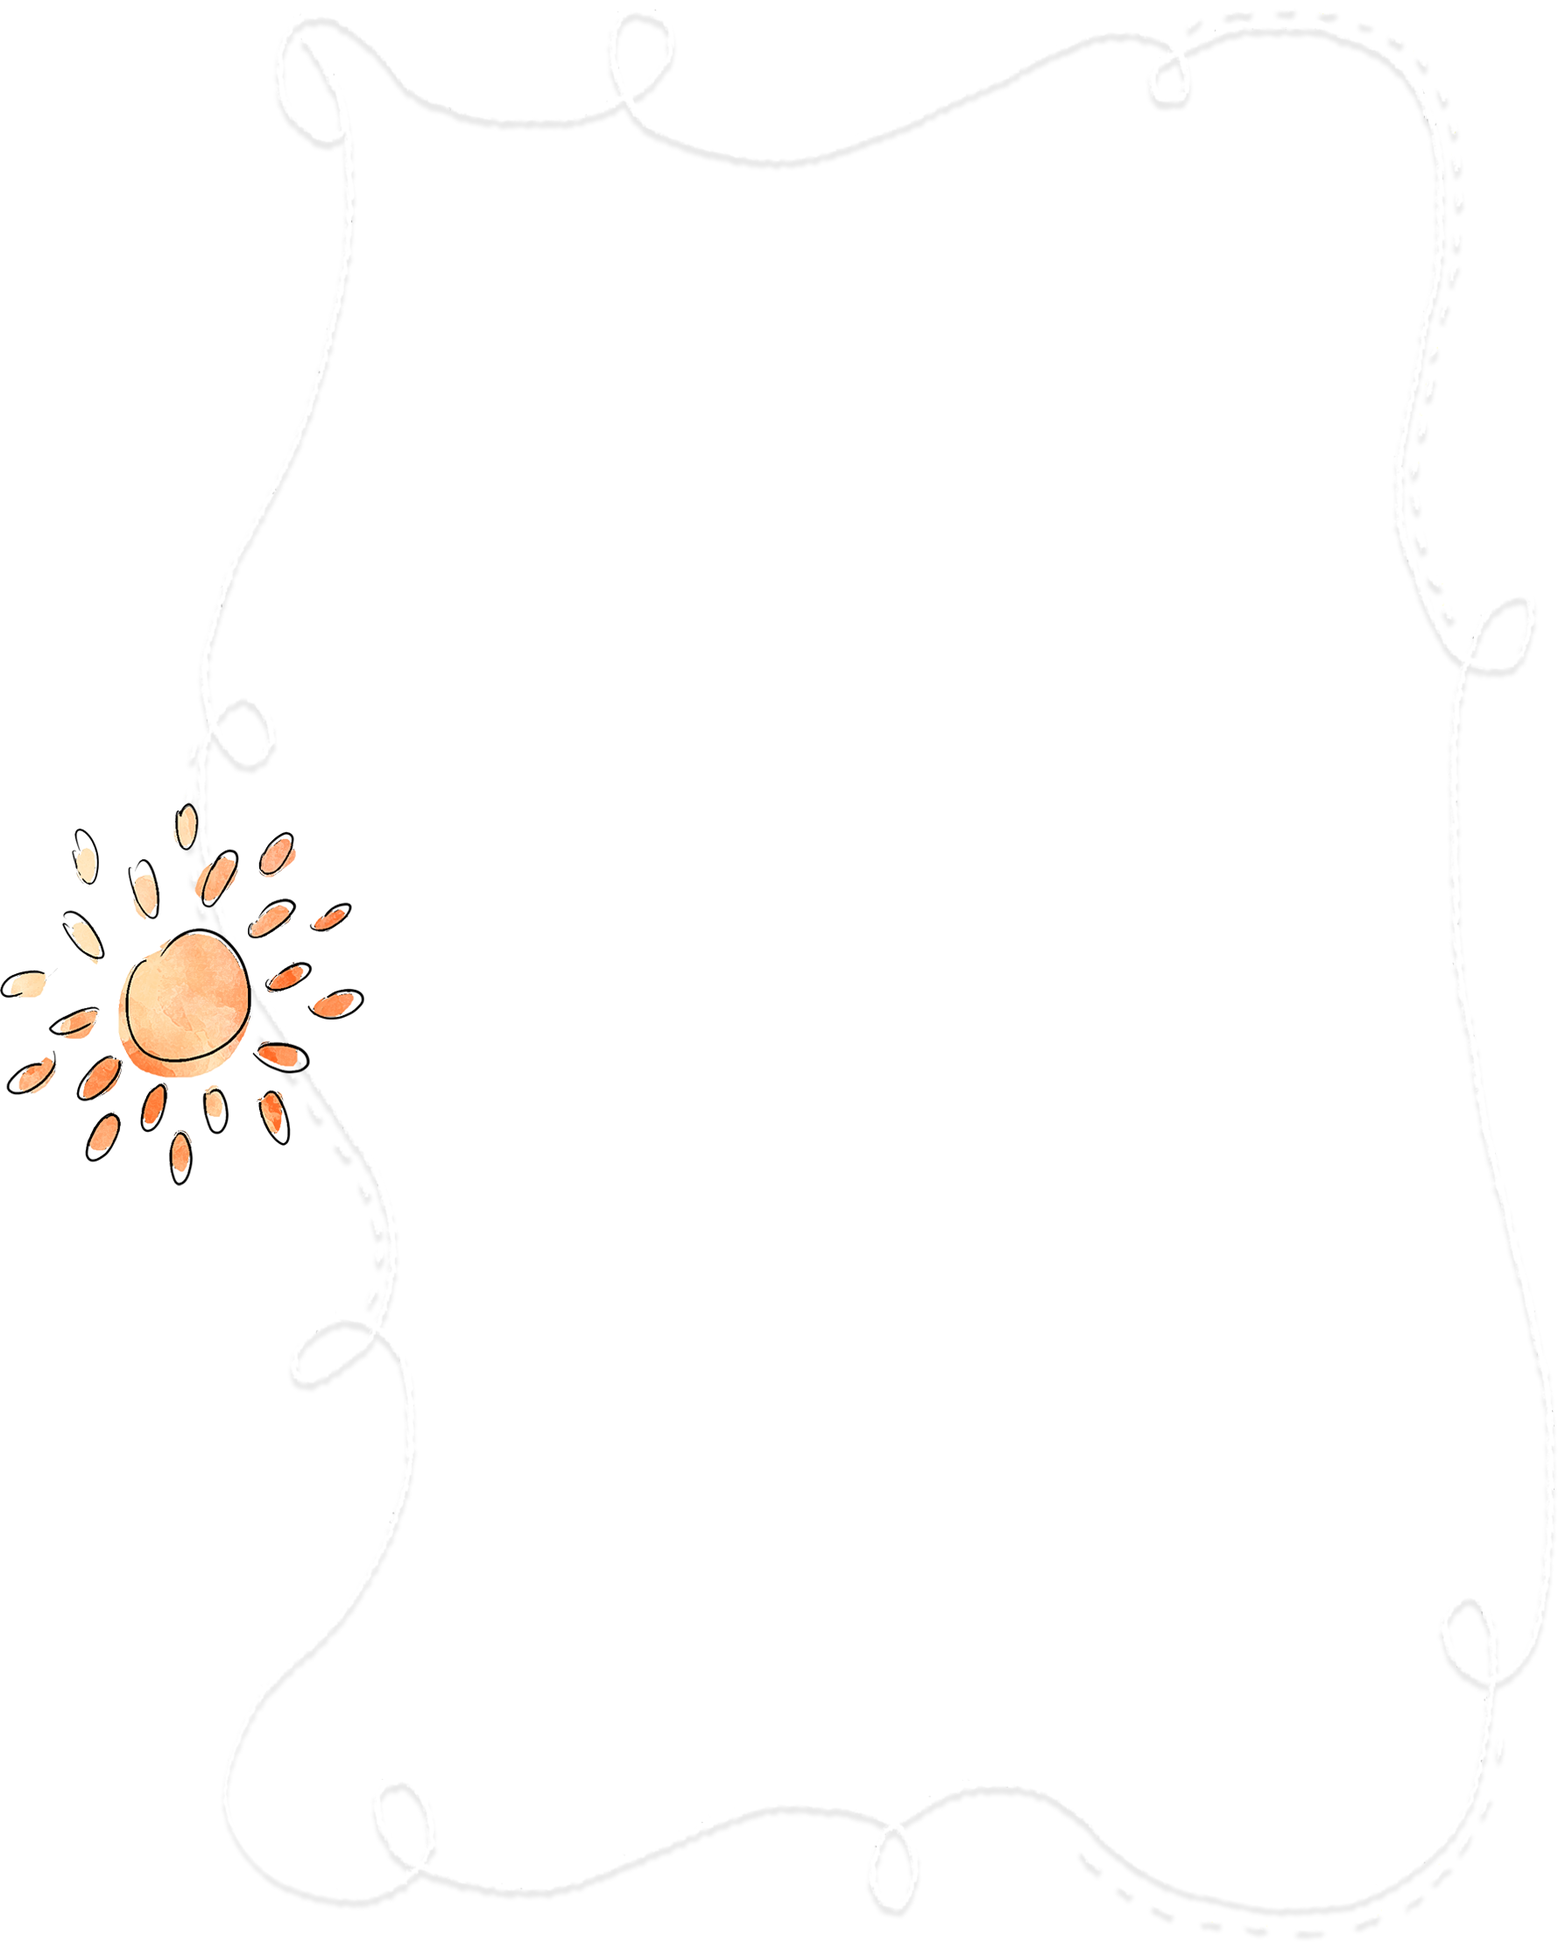
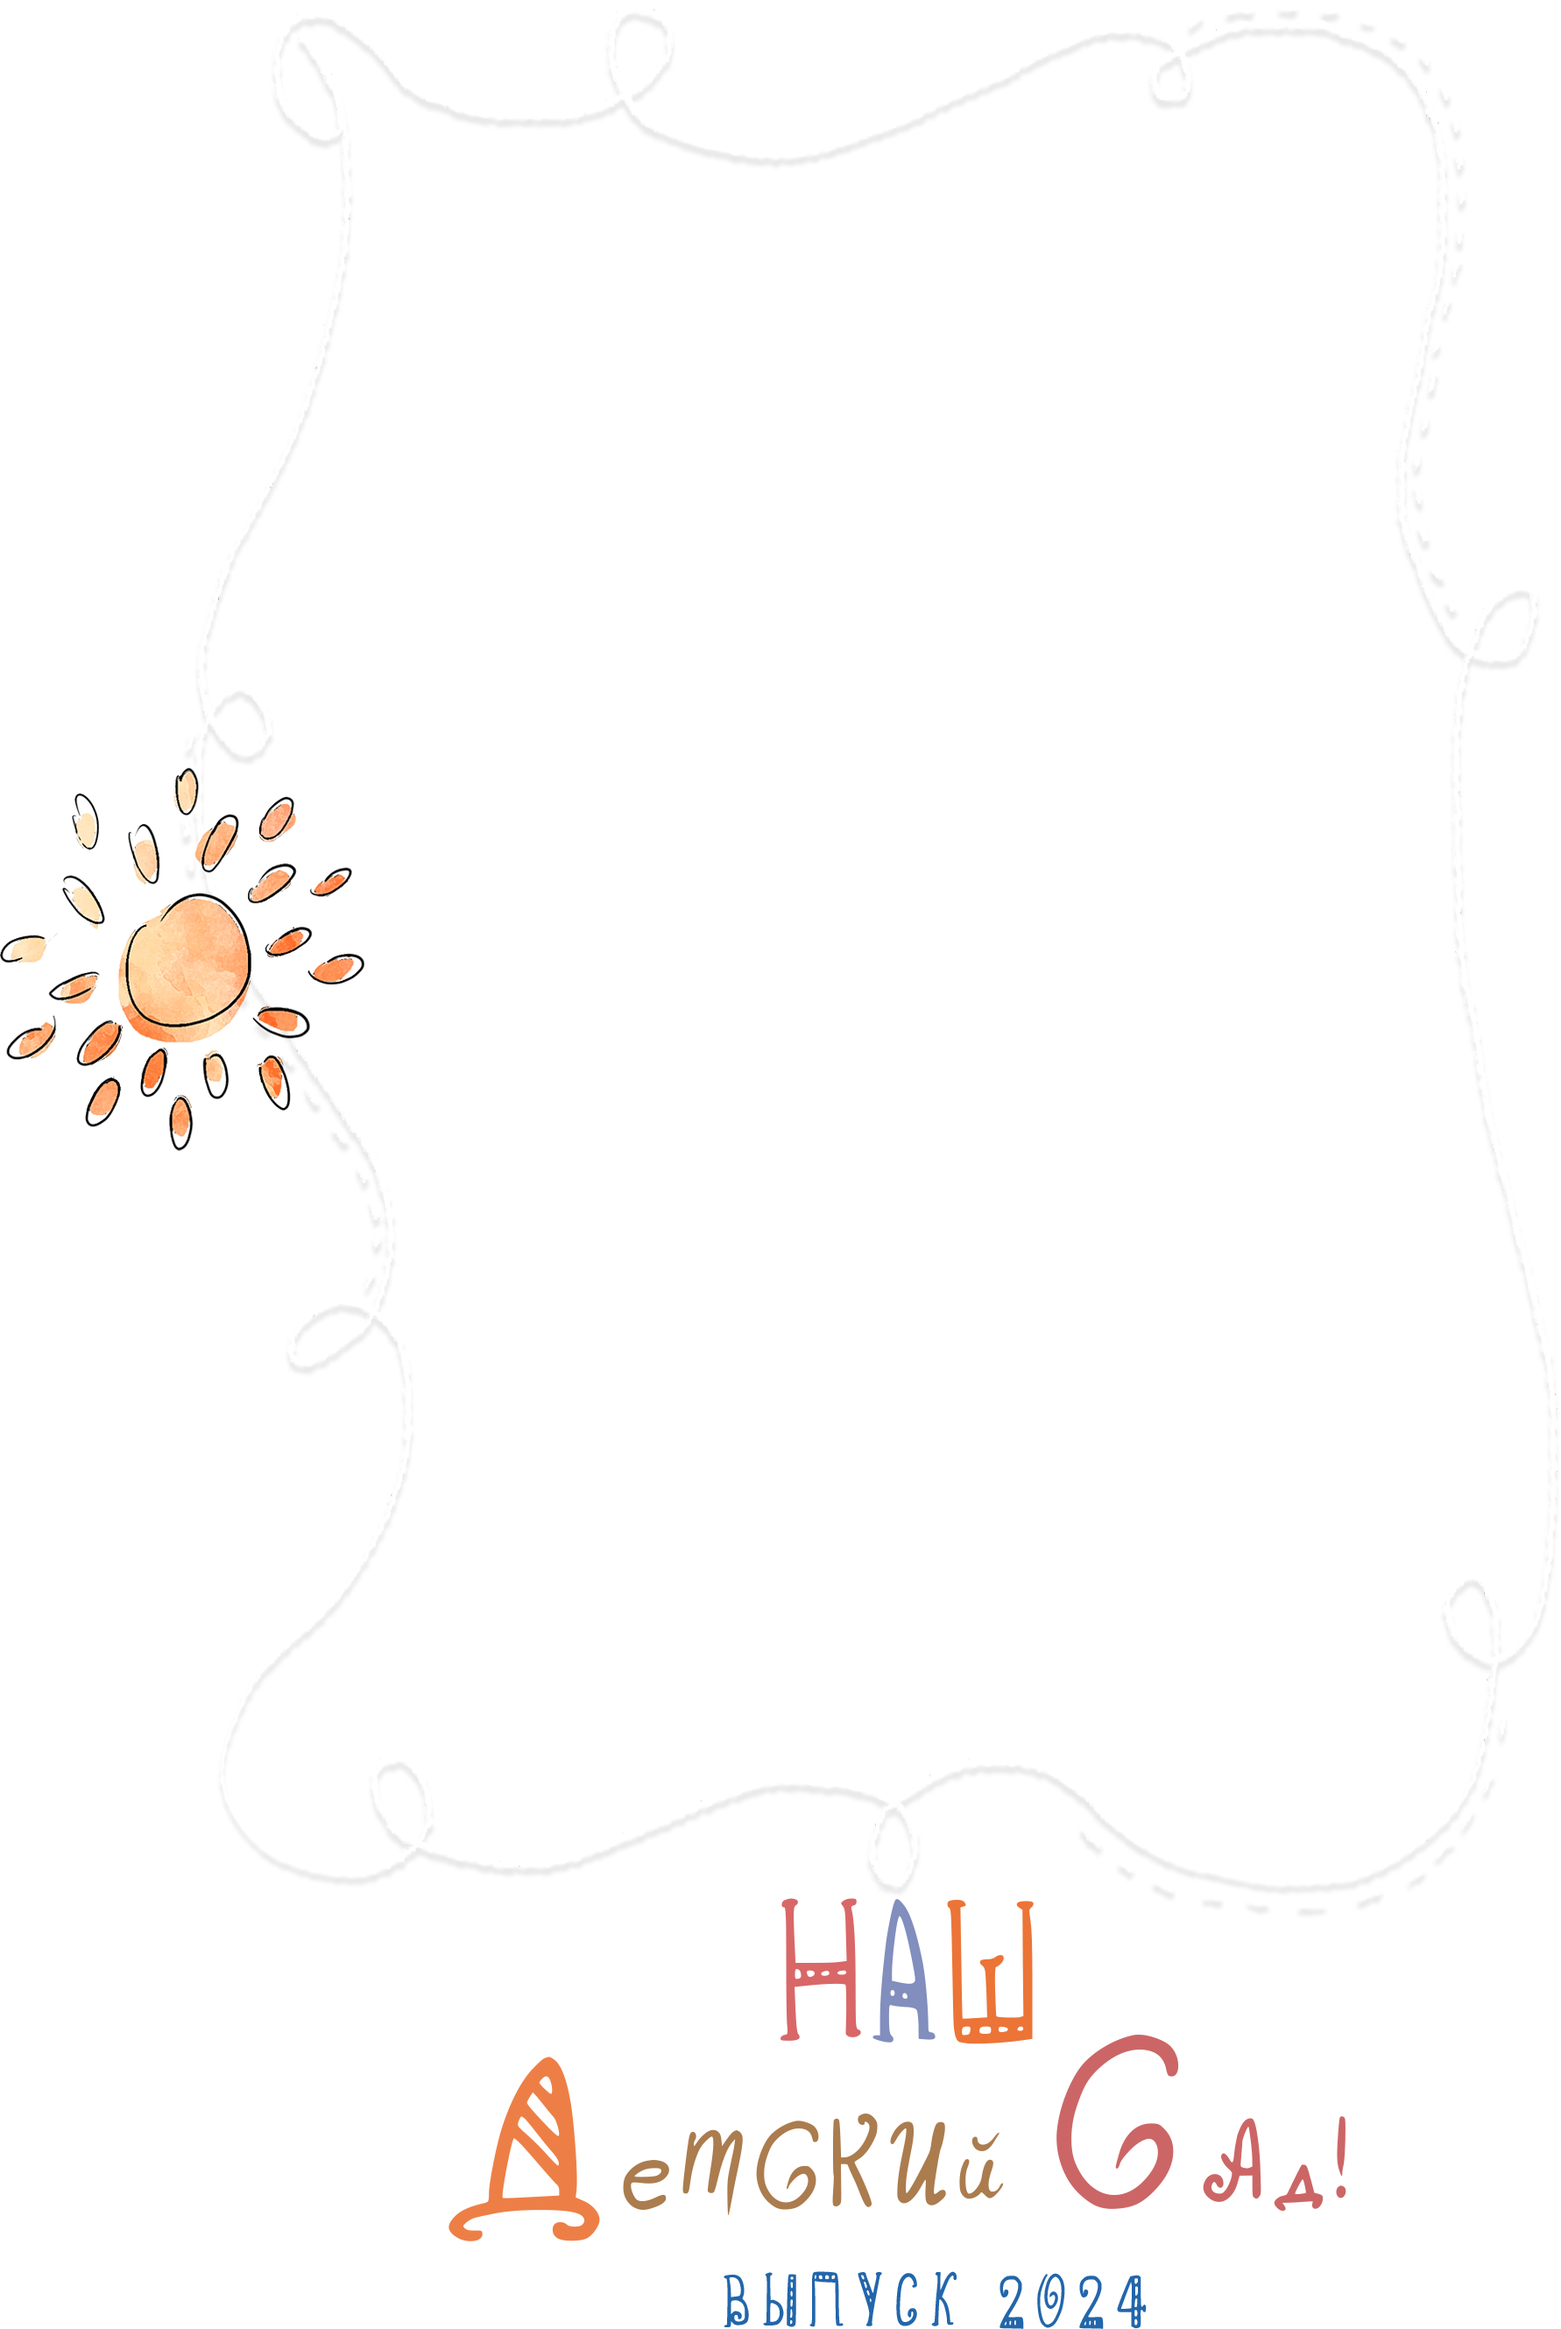
last changes

Changed region(s): [[0.2782, 0.8092, 0.8657, 1.0], [0.0, 0.3112, 0.2473, 0.6225]]

diff --git a/impose/sharp.js b/impose/sharp.js
@@ -25,7 +25,8 @@ async function processStudent(item) {
   await Promise.all(pages.map(async (page) => {
     const { layoutPath, pageName } = page;
     const destinationPath = `${studentFolderPath}/${pageName}.jpg`
-    const layout = sharp(layoutPath);
+    const layout = sharp(layoutPath).withMetadata();
+
     const { width: layoutWidth, height: layoutHeight } = await layout.metadata();
     const dataToComposite = await processPage(page, layoutWidth, layoutHeight);
     layout.composite(dataToComposite);

diff --git a/constants.js b/constants.js
@@ -61,8 +61,8 @@ export const ALBUM_NAMES_DATA = {
           name: 'decoration.png',
           path: `${ASSETS_FOLDER_NAME}/${ALBUMS_FOLDER_NAME}/ourKingergarten/${LAYOUT_TYPE.COVER}/`,
           offsets: {
-            left: 2980,
-            top: 568,
+            left: 2960,
+            top: 608,
           }
         },
       },

diff --git a/impose/index.js b/impose/index.js
@@ -11,7 +11,6 @@ async function main() {
   try {
     createFolder(RESULT)
     const data = await processCSVDataToImpose(`${DATA_FOLDER_NAME}/${CSVPathImpose}`);
-    console.log('data', data)
     await processPhotos(data);
   } catch (error) {
     console.error('An error occurred:', error);

diff --git a/impose/resize.js b/impose/resize.js
@@ -1,7 +1,5 @@
 import { CUT_OFF, PADDINGS, SIZE_TYPES } from "../constants.js";
 
-
-
 export const resizePhoto = async (photo, sizeType, layoutWidth, layoutHeight, order) => {
   let resizedPhoto;
   let updatedWidth;
